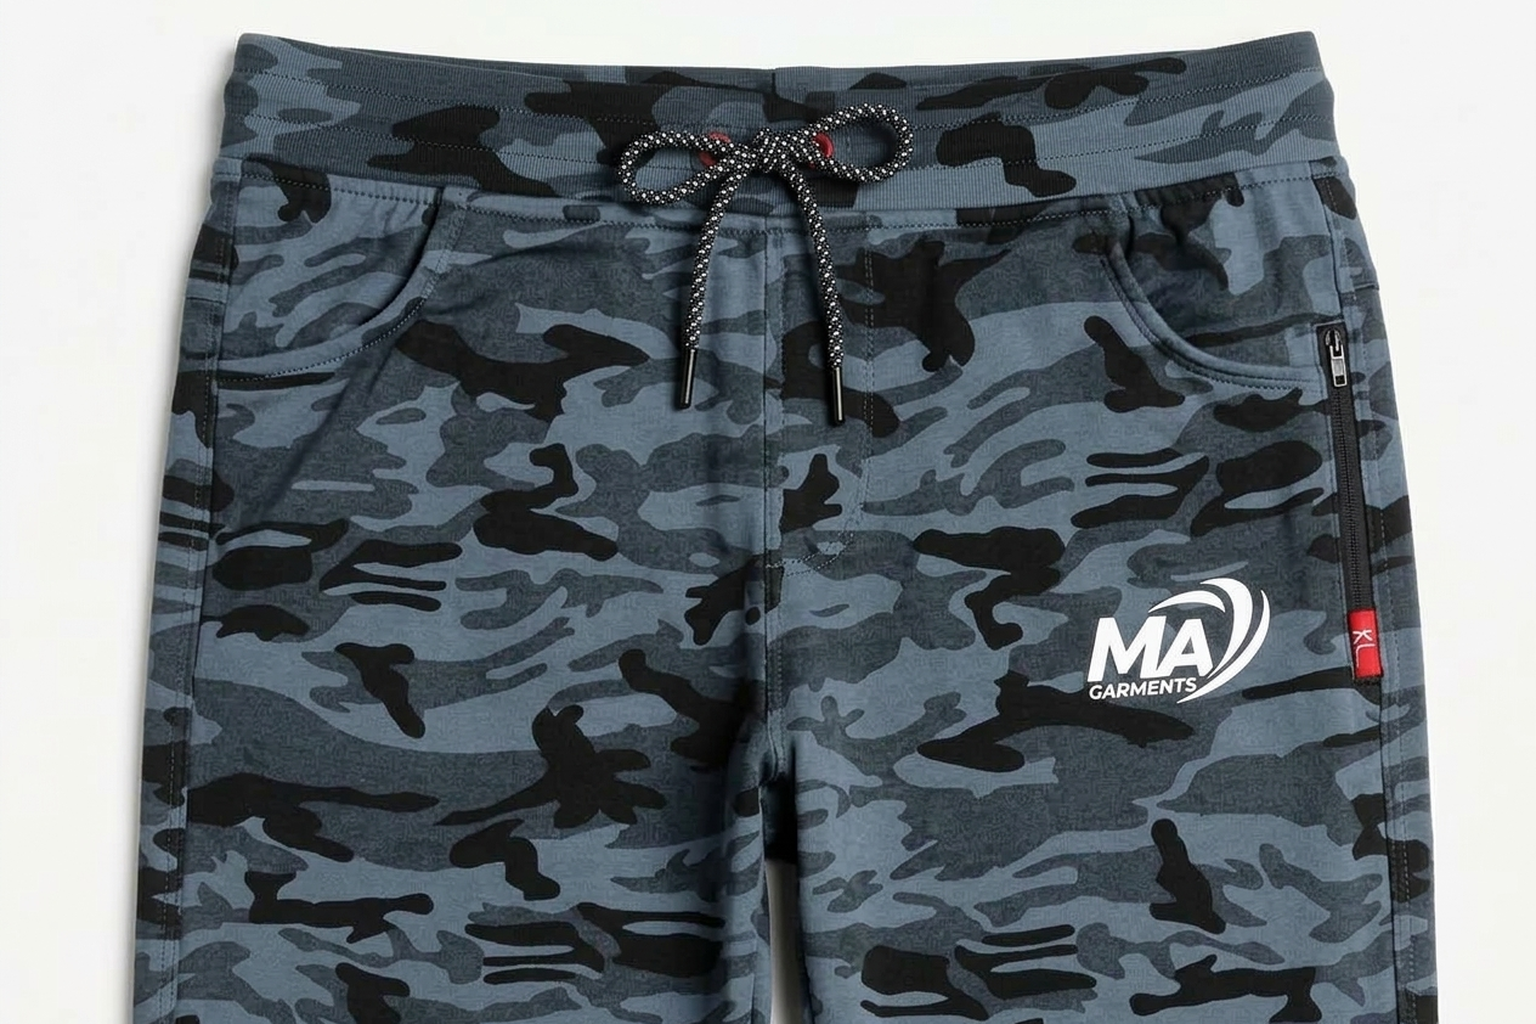
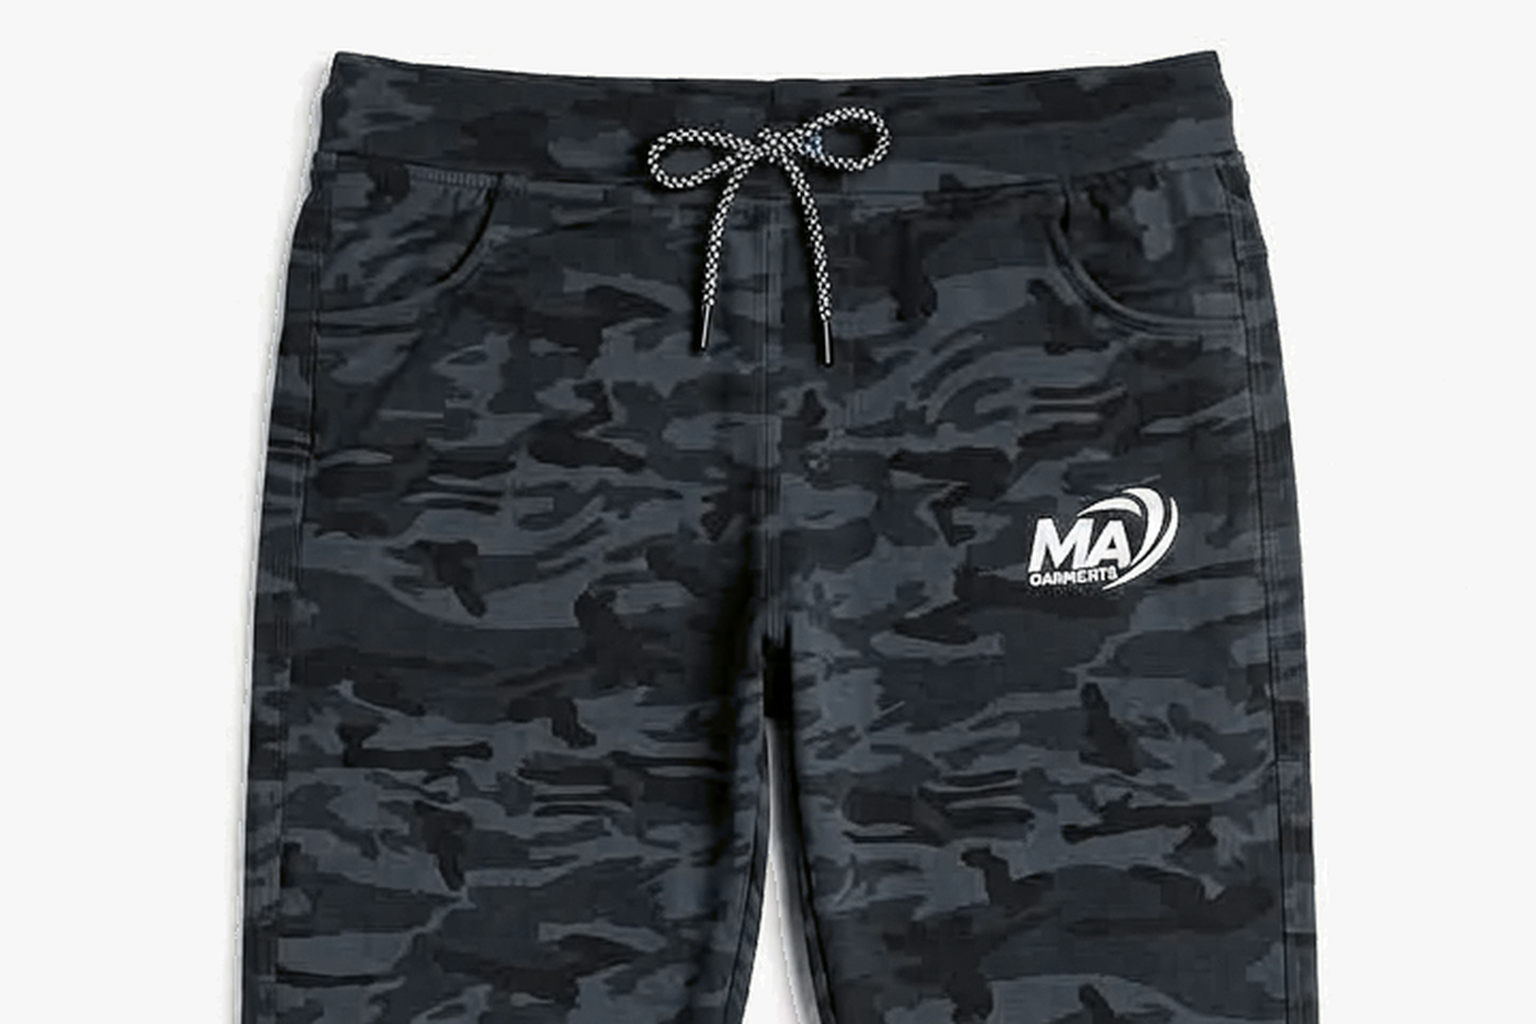
streamline 4 Way Military images to 4 views per color with chainless D-pocket

diff --git a/src/data/products.ts b/src/data/products.ts
@@ -172,18 +172,18 @@ export const products: Product[] = [
     moq: "100 Pieces (Standard Wholesale Pack - Assorted Sizes)",
     packaging: "Individual transparent polybag, 12 pcs inner bundle, 120 pcs master corrugated carton",
     description:
-      "High-demand tactical military camouflage track pants manufactured with premium 220 GSM 4-way stretch NS Lycra. Engineered with authentic military camo print, heavy-gauge elastic waistband with braided drawstring, side zipper pockets with MA Garments branding, and reinforced twin-needle hems for superior athletic durability.",
+      "High-demand tactical military camouflage track pants manufactured with premium 220 GSM 4-way stretch NS Lycra. Engineered with authentic military camo print, heavy-gauge elastic waistband with braided drawstring, deep D-type open scoop pockets with MA Garments branding, and reinforced twin-needle hems for superior athletic durability.",
     specifications: {
       fabricComposition: "88% Micro Polyester, 12% Spandex / 4-Way Stretch Camo Lycra",
       waistband: "45mm heavy-gauge knit elastic with internal flat braided drawstring & reinforced eyelets",
-      pockets: "Dual side scoop pockets with smooth nylon coil zipper welt & MA Garments logo",
+      pockets: "Dual side open D-type scoop pockets with precision MA Garments logo print",
       stitching: "4-thread overlock interlock with double-needle flatlock hems",
       ankleFinish: "Clean straight-cut ankle hem with double-needle topstitching",
     },
     highlights: [
       "Authentic military camouflage print in 3 high-moving colorways",
       "Full 360-degree 4-way elasticity that holds shape after wash",
-      "Concealed zipper pockets with durable auto-lock puller & MA Garments crest",
+      "Deep D-type open scoop pockets with precision MA Garments crest",
       "Factory-standard ratio: 1 M : 2 L : 2 XL : 1 2XL (or custom buyer ratio)",
     ],
   },
